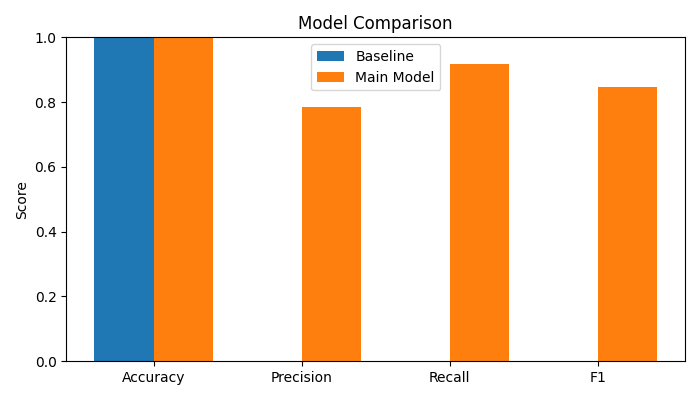
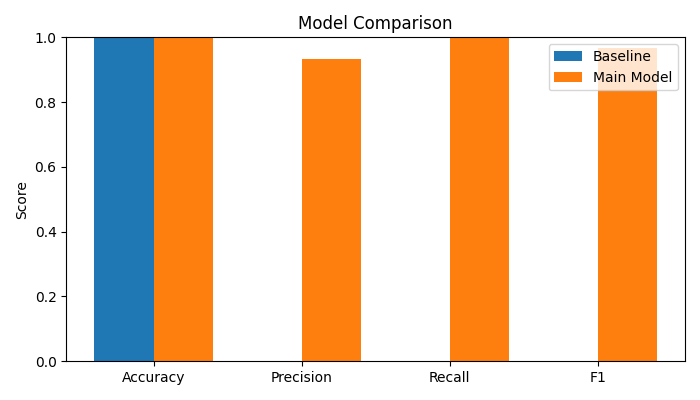
General model optimizations, and prioritization of recall (now gets 100% recall)

Changed region(s): [[0.42, 0.12, 0.63, 0.27], [0.78, 0.12, 0.96, 0.24], [0.63, 0.09, 0.75, 0.18]]

diff --git a/src/models/main_model.py b/src/models/main_model.py
@@ -1,7 +1,7 @@
 import pandas as pd
 from sklearn.model_selection import train_test_split
 from sklearn.ensemble import HistGradientBoostingClassifier
-from sklearn.metrics import classification_report, confusion_matrix
+from sklearn.metrics import classification_report, confusion_matrix, fbeta_score, make_scorer
 from sklearn.model_selection import RandomizedSearchCV
 import os
 import joblib
@@ -82,6 +82,7 @@ class MainModel:
             max_iter=params.get('max_iter', 100),
             max_depth=params.get('max_depth', 3),
             random_state=params.get('random_state', 42),
+            class_weight=params.get('class_weight', 'balanced'), # Handle class imbalance
         )
 
 
@@ -106,11 +107,13 @@ class MainModel:
 
         model = self.generate_new_model()
 
+        f2_scorer = make_scorer(fbeta_score, beta=2, pos_label=1)
+
         random_search = RandomizedSearchCV(
             model,
             param_distributions=param_dist, # Can choose any value from above ranges
             n_iter=10,                      # Tries 10 different combinations (Could increase this later if needed, but it will take longer)
-            scoring='f1',                   # Optimize for F1 score
+            scoring=f2_scorer,              # Optimize for F2 score (Weights recall more heavily)
             cv=3,                           # 3-fold cross-validation
             # random_state=42,              # Uncomment for reproducibility (I disabled this for now to allow improvement across runs)
             n_jobs=-1                       # Use all available cores to parallelize fits

diff --git a/src/main.py b/src/main.py
@@ -8,6 +8,7 @@ from models.main_model import MainModel
 from preprocessing.data_preprocessing import preprocess_data
 from preprocessing.data_preprocessing import normalize_data
 from evaluation.eval import run_evaluation, compare_models
+from imblearn.over_sampling import RandomOverSampler
 
 
 """
@@ -133,6 +134,9 @@ if __name__ == "__main__":
     print(y_train.name)
 
     X_train_norm, X_test_norm,  =  normalize_data(X_train, X_test)
+
+    ros = RandomOverSampler(random_state=42)
+    X_train_norm, y_train = ros.fit_resample(X_train_norm, y_train) # Oversample minority class in training
 
     #models
     baseline = BaselineModel()

diff --git a/src/preprocessing/feature_engineering.py b/src/preprocessing/feature_engineering.py
@@ -41,7 +41,7 @@ class feature_engineering:
         
         # Simple train/test split for testing (no stratify)
         X_train, X_test, y_train, y_test = train_test_split(
-            X, y, test_size=test_size, random_state=random_state
+            X, y, test_size=test_size, random_state=random_state, stratify=y # Maintain class distribution
         )
 
         return X_train, y_train, X_test, y_test
